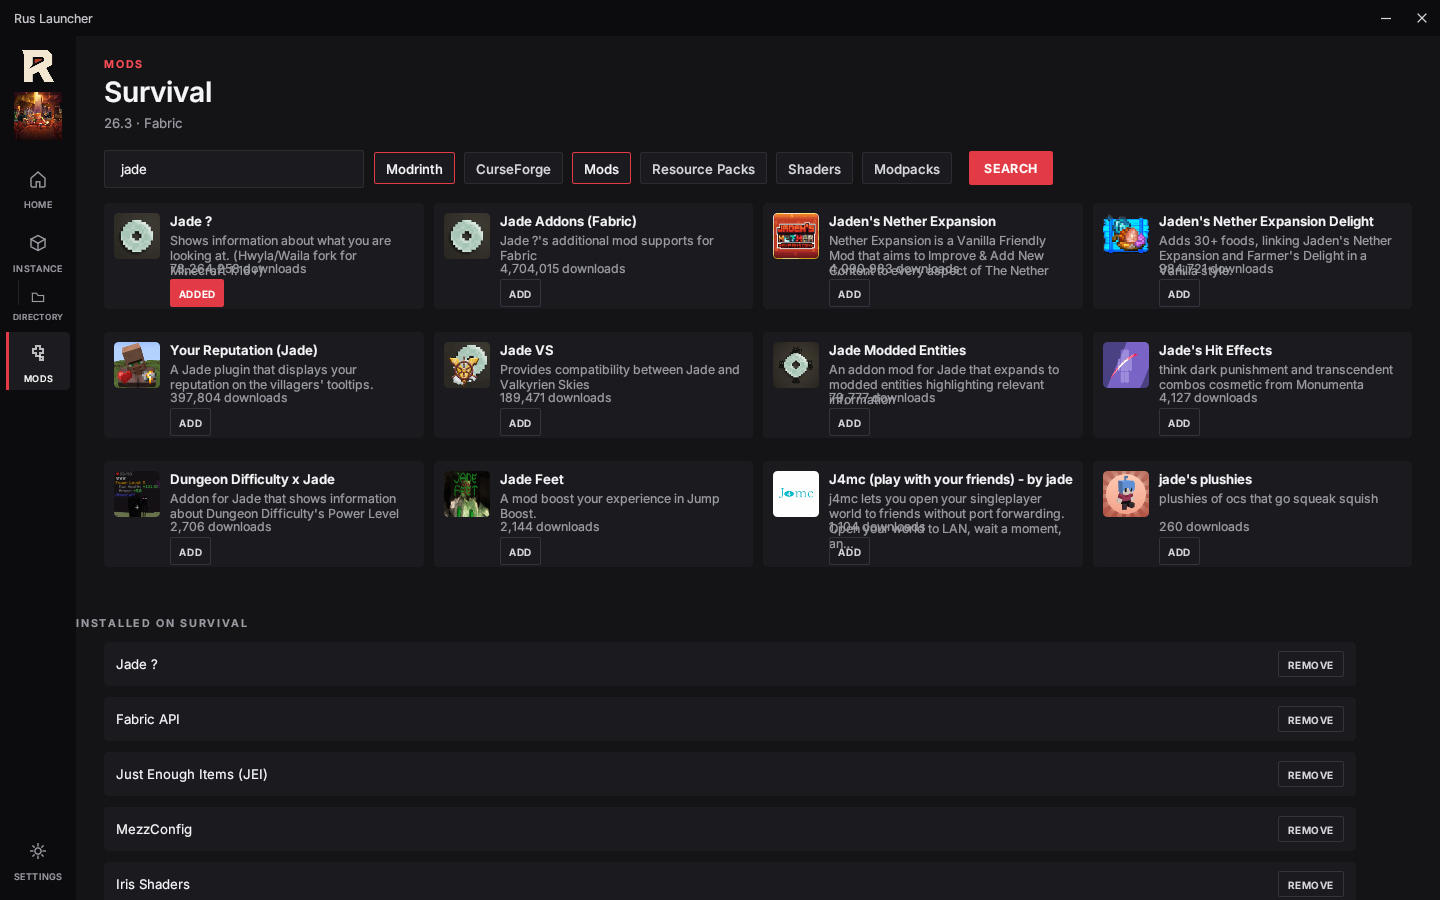
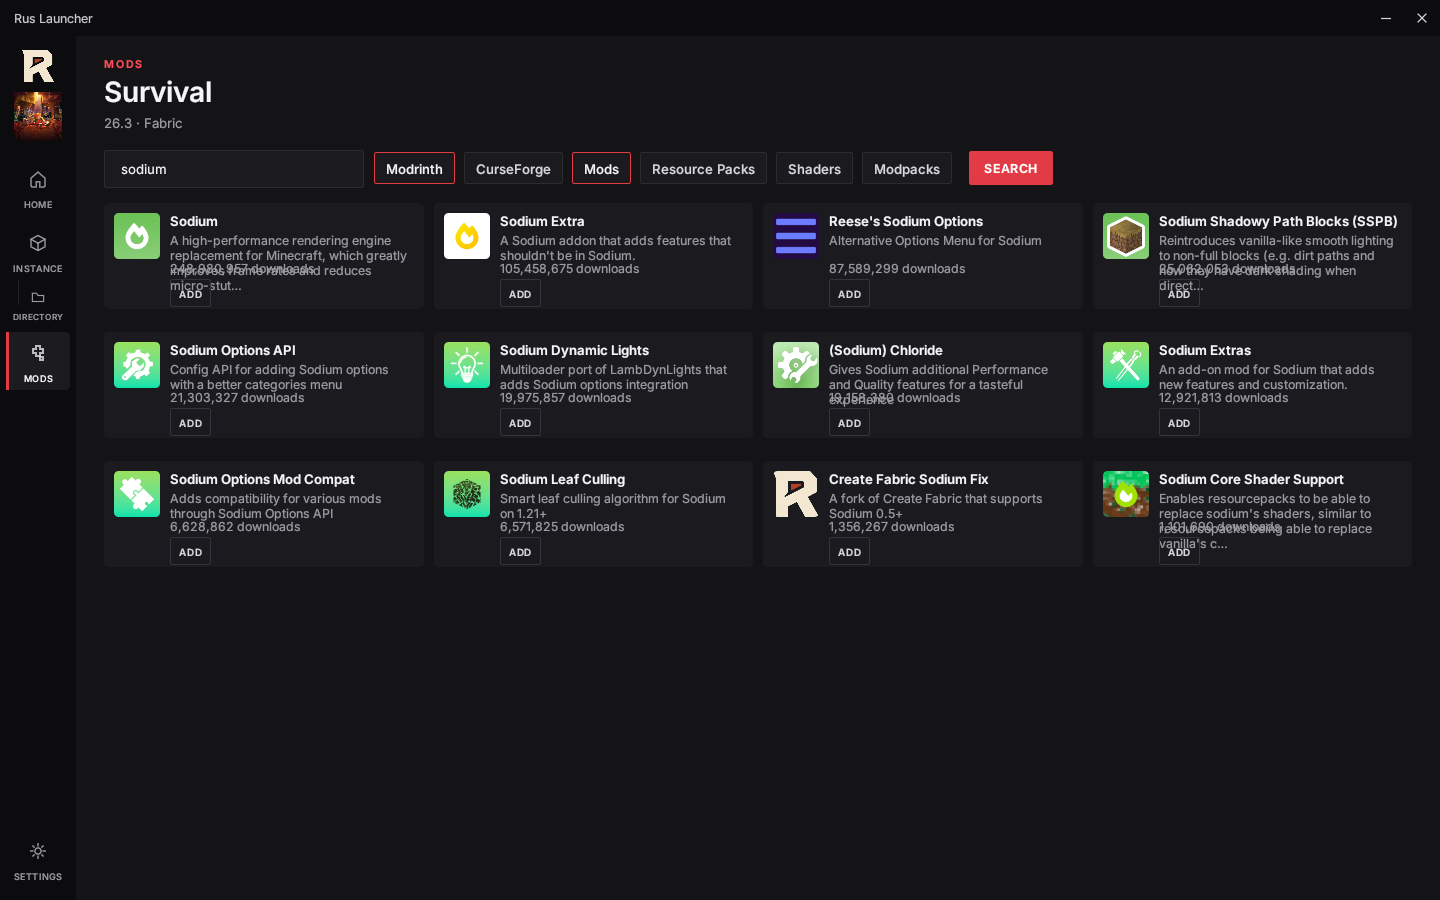
The Mods page is only for finding and installing
The installed list moved to the Directory a while ago, so the Mods tab
was showing the same mods twice and doing work nobody needed. Only the
search field, the sources, the types and the results stay.

diff --git a/rus-launcher/src/pages.rs b/rus-launcher/src/pages.rs
@@ -799,42 +799,6 @@ impl App {
                     }
                 }
 
-                // installed list
-                ui.add_space(18.0);
-                let title = format!("INSTALLED ON {}", instance.name.to_uppercase());
-                field_label(ui, &title);
-                let mods = instance.mods.clone();
-                if mods.is_empty() {
-                    note(ui, "No mods yet.");
-                } else {
-                    for (index, entry) in mods.iter().enumerate() {
-                        let (rect, _) =
-                            ui.allocate_exact_size(Vec2::new(ui.available_width() - 56.0, 44.0), Sense::hover());
-                        let item = Rect::from_min_max(
-                            Pos2::new(rect.min.x + 28.0, rect.min.y),
-                            Pos2::new(rect.max.x - 28.0, rect.min.y + 44.0),
-                        );
-                        ui.painter().rect_filled(item, CornerRadius::same(RADIUS), CARD);
-                        ui.painter().text(
-                            Pos2::new(item.min.x + 12.0, item.center().y),
-                            Align2::LEFT_CENTER,
-                            entry.name.clone(),
-                            regular(13.0),
-                            if entry.enabled { TEXT } else { FAINT },
-                        );
-                        let w = text_width(ui.ctx(), "REMOVE", &bold(11.0)) + 20.0;
-                        let btn = Rect::from_min_size(
-                            Pos2::new(item.max.x - 12.0 - w, item.center().y - 13.0),
-                            Vec2::new(w, 26.0),
-                        );
-                        let style = Button::ghost("REMOVE").font(bold(10.0));
-                        if button(ui, ui.id().with("mod-remove").with(index), btn, &style).clicked() {
-                            self.state.current_instance_mut().mods.remove(index);
-                            self.state.save();
-                        }
-                        ui.add_space(8.0);
-                    }
-                }
                 ui.add_space(28.0);
             });
     }
